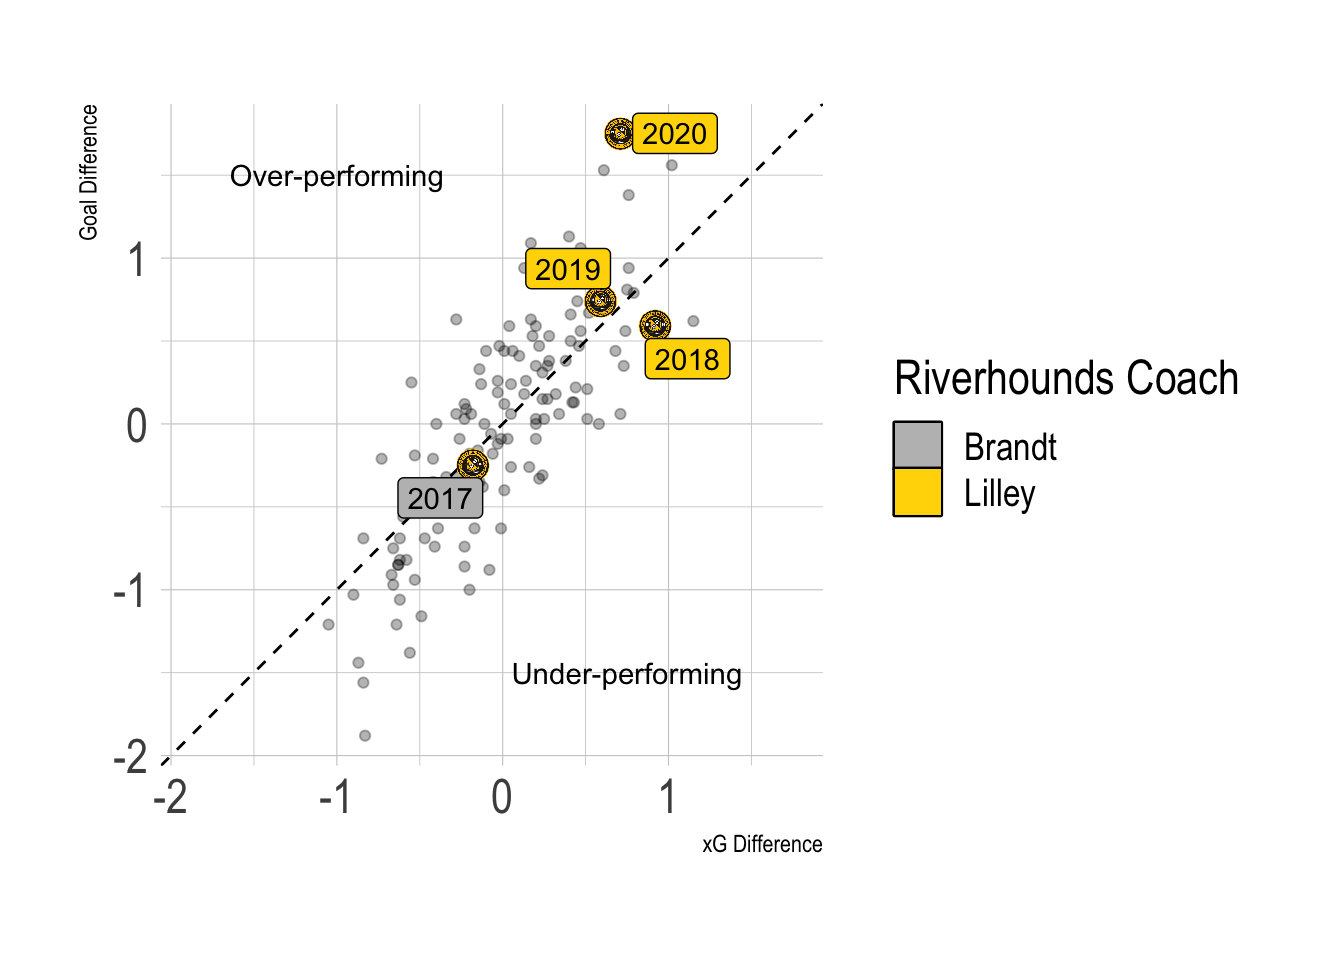
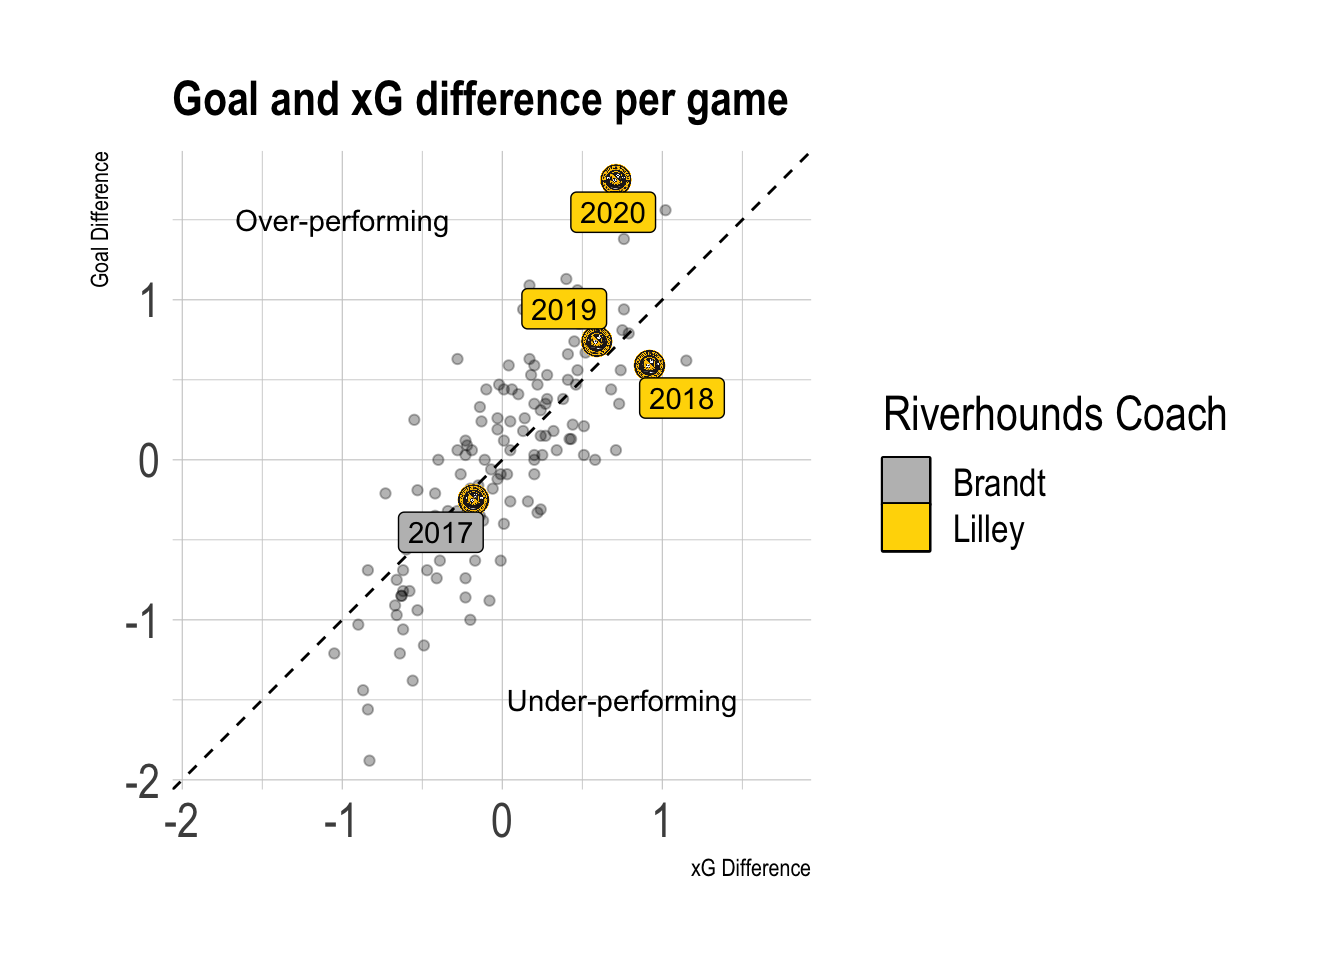
added "per game" to some graphs, updated featured image

diff --git a/content/post/riverhounds_lilley/index.html b/content/post/riverhounds_lilley/index.html
@@ -82,7 +82,7 @@ goal_data %&gt;%
   geom_line(size = 1.5) +
   geom_point(data = filter(goal_data, metric_type == &quot;Actual&quot;), size = 2) +
   labs(title = &quot;Pittsburgh Riverhounds&quot;,
-       subtitle = &quot;Expected and Actual Goals&quot;,
+       subtitle = &quot;Expected and Actual Goals per game&quot;,
        x = &quot;Season&quot;,
        y = &quot;Goals&quot;,
        color = &quot;Goal Type&quot;,
@@ -146,7 +146,7 @@ goal_data %&gt;%
            x = -1, y = 1.5) +
   tune::coord_obs_pred() +
   scale_fill_manual(values = c(&quot;grey&quot;, &quot;gold&quot;)) +
-  labs(title = NULL,
+  labs(title = &quot;Goal and xG difference per game&quot;,
        x = &quot;xG Difference&quot;,
        y = &quot;Goal Difference&quot;,
        fill = &quot;Riverhounds Coach&quot;) +
@@ -166,6 +166,7 @@ goal_data %&gt;%
   coord_cartesian(ylim = c(-1.5, 1.5)) +
   #coord_fixed(ratio = .5) +
   labs(title = &quot;Goal difference - xG difference&quot;,
+       subtitle = &quot;Per game&quot;,
        x = &quot;Season&quot;,
        y = substitute(paste(&quot;&quot; %&lt;-% &quot;&quot;, &quot;Under-performing&quot;, &quot;  |  &quot;, &quot;Over-performing&quot;, &quot;&quot; %-&gt;% &quot;&quot;)),
        fill = &quot;Riverhounds Coach&quot;,
